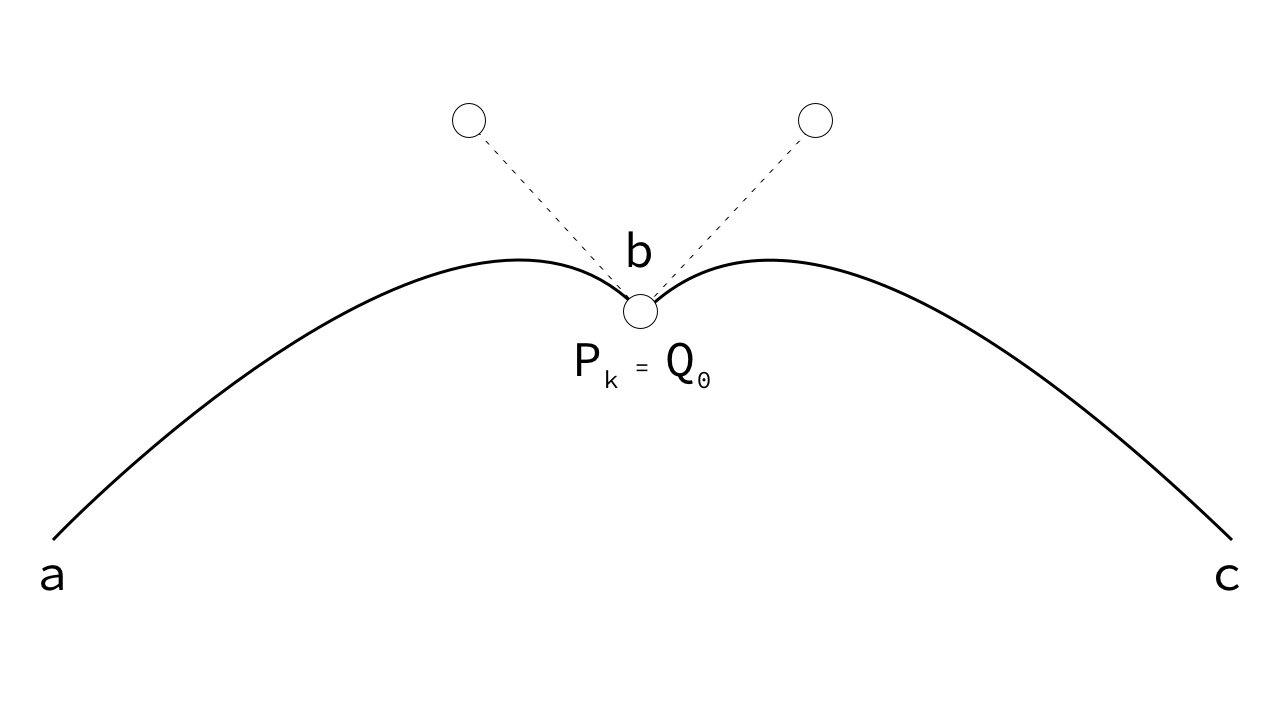
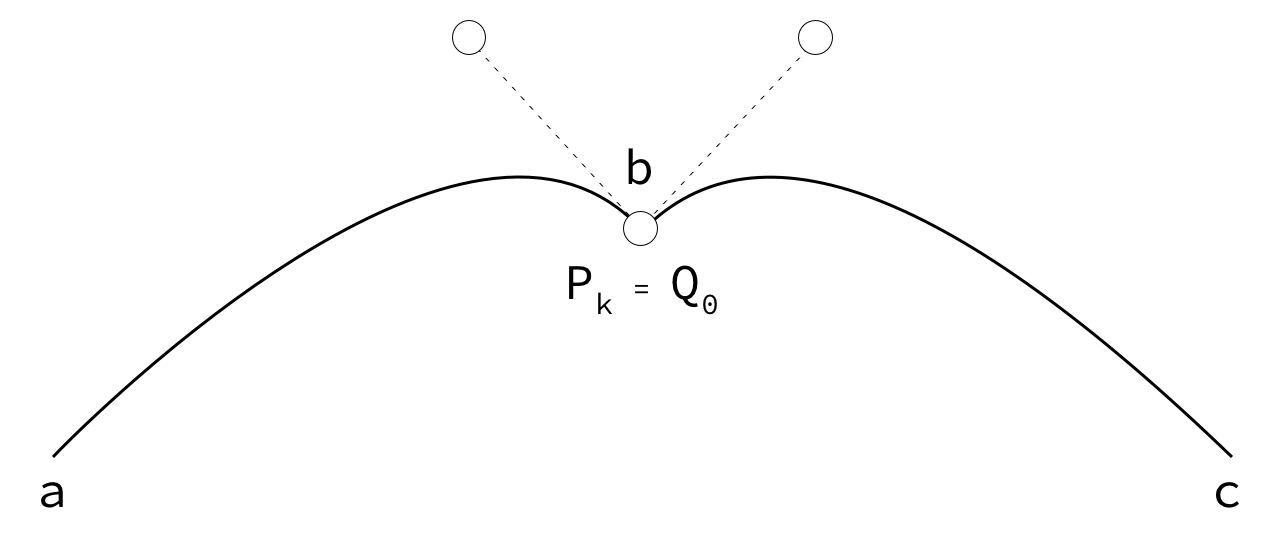
fix img

diff --git a/index.html b/index.html
@@ -188,7 +188,7 @@
                 Sappiamo che \(P\) &egrave; individuata in \(\{P_{0},\cdots,P_{k}\}\) e \(Q\) in
                 \(\{Q_{0},\cdots,Q_{k}\}\).
 
-                <img src="assets/retta.png" width="auto" height="200">
+                <img src="assets/retta.png" width="auto" height="150">
                 \[P_{0} = a \quad , \quad P_{k} = b = Q_{0} \quad , \quad Q_{k} = c\]
             </p>
 
@@ -199,7 +199,7 @@
                 condizione abbastanza ovvia per poter assicurare l'incollamento.
             <div>
                 <div style="text-align:center;">Incollamento di classe \(C^{0}\)</div>
-                <img src="assets/c0.png" width="auto" height="200">
+                <img src="assets/c0.png" width="auto" height="150">
             </div>
             </p>
 
@@ -214,7 +214,7 @@
                 questo tipo di curva.
             <div>
                 <div style="text-align:center;">Incollamento di classe \(C^{1}\)</div>
-                <img src="assets/c1.png" width="auto" height="200">
+                <img src="assets/c1.png" width="auto" height="150">
             </div>
             </p>
 
@@ -227,7 +227,7 @@
                 P_{k}(=Q_{0}), Q_{1}\), \(P_{k-2}, P_{k-1}, D\) e \(D, Q_{1}, Q_{2}\).
             <div>
                 <div style="text-align:center;">Incollamento di classe \(C^{2}\)</div>
-                <img src="assets/c2.png" width="auto" height="250">
+                <img src="assets/c2.png" width="auto" height="270">
             </div>
             </p>
 
